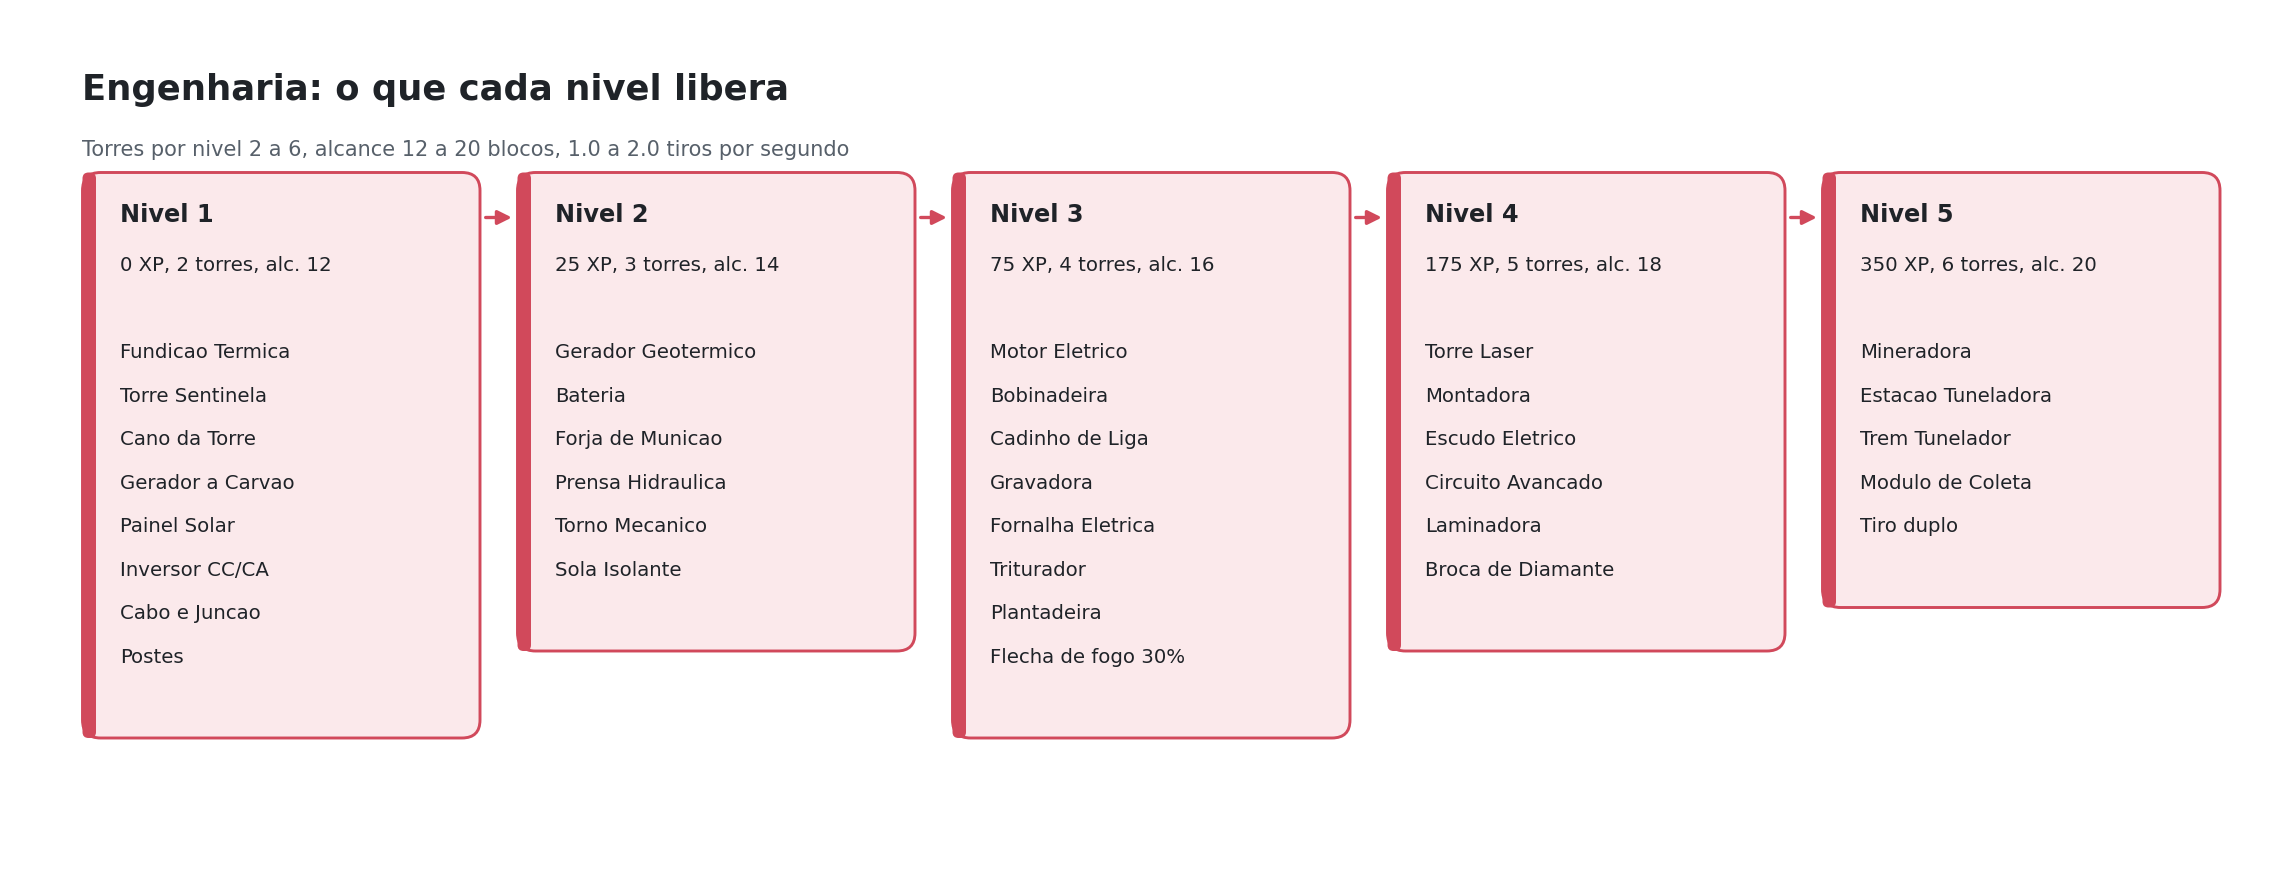
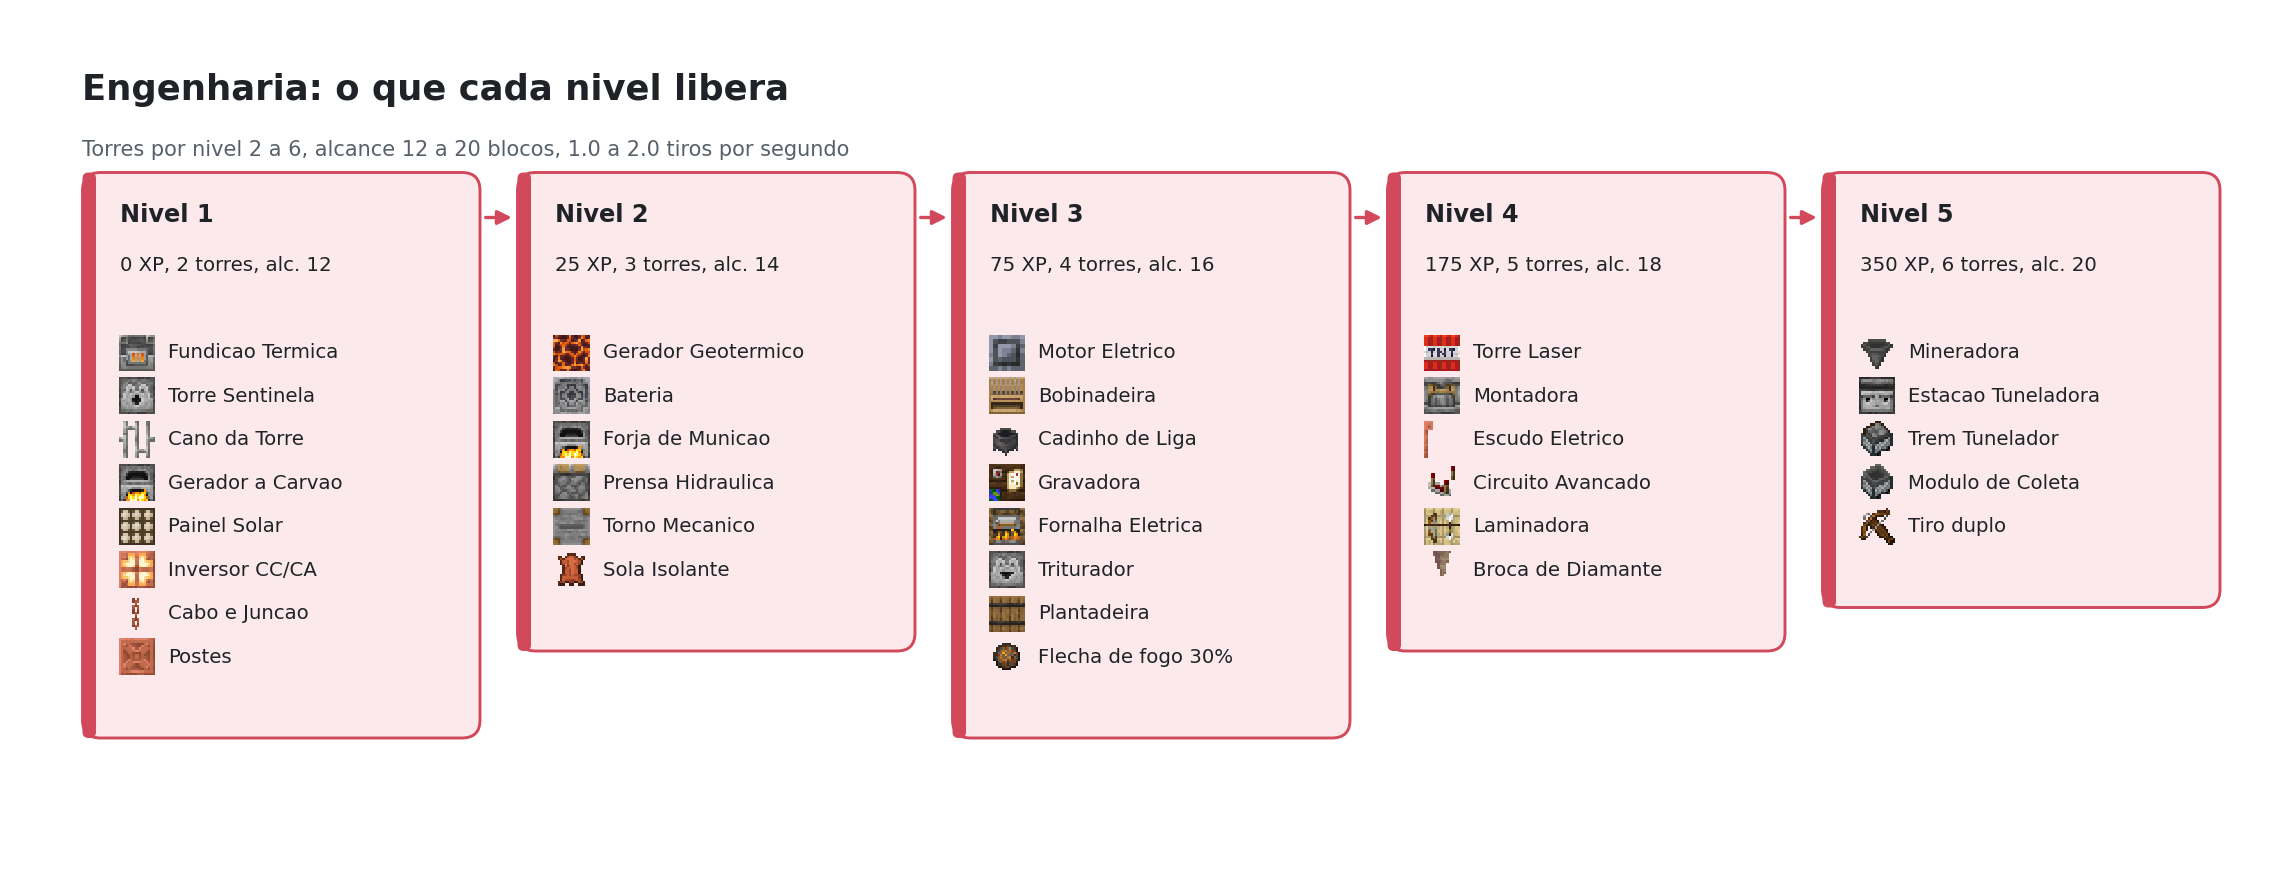
Diagramas com icones dos itens tirados das texturas do cliente Minecraft

diff --git a/docs/diagrams.py b/docs/diagrams.py
@@ -3,9 +3,15 @@ Gera os diagramas do README e da wiki em docs/img/.
 
     python docs/diagrams.py
 
-Requer matplotlib. Os numeros aqui espelham o codigo (Engineer, Farmer, Explorer, Relics,
+Requer matplotlib. Os icones dos itens saem das texturas do Minecraft instalado no PC
+(o jar do cliente em .minecraft/versions, extraido para docs/.textures, que nao vai para o git).
+Sem o jar, ou com MC_TEXTURES=off, os diagramas saem sem icones. MC_JAR aponta um jar especifico.
+
+Os numeros aqui espelham o codigo (Engineer, Farmer, Explorer, Relics,
 HardcoreRouletteClasses); ao mudar um balanceamento, atualize a tabela correspondente e rode de novo.
 """
+import os
+import zipfile
 from pathlib import Path
 
 import matplotlib
@@ -15,6 +21,118 @@ from matplotlib.patches import FancyBboxPatch, FancyArrowPatch
 
 OUT = Path(__file__).resolve().parent / "img"
 OUT.mkdir(exist_ok=True)
+TEX = Path(__file__).resolve().parent / ".textures"
+
+
+# ---------------------------------------------------------------- texturas
+def _client_jar():
+    if os.environ.get("MC_JAR"):
+        return Path(os.environ["MC_JAR"])
+    base = Path(os.environ.get("APPDATA", Path.home() / ".config")) / ".minecraft" / "versions"
+    if not base.is_dir():
+        base = Path.home() / ".minecraft" / "versions"
+    jars = []
+    for d in base.glob("*") if base.is_dir() else []:
+        j = d / (d.name + ".jar")
+        if j.is_file() and d.name[:1].isdigit() and "-" not in d.name:  # so versoes oficiais
+            jars.append(j)
+    key = lambda j: [int(p) if p.isdigit() else 0 for p in j.stem.split(".")]
+    return max(jars, key=key) if jars else None
+
+
+def _textures():
+    if os.environ.get("MC_TEXTURES") == "off":
+        return False
+    if (TEX / "item").is_dir():
+        return True
+    jar = _client_jar()
+    if not jar:
+        print("aviso: jar do Minecraft nao encontrado, diagramas sem icones")
+        return False
+    print("extraindo texturas de", jar.name)
+    with zipfile.ZipFile(jar) as z:
+        for n in z.namelist():
+            for kind in ("item", "block"):
+                pre = f"assets/minecraft/textures/{kind}/"
+                if n.startswith(pre) and n.endswith(".png") and "/" not in n[len(pre):]:
+                    out = TEX / kind / n[len(pre):]
+                    out.parent.mkdir(parents=True, exist_ok=True)
+                    out.write_bytes(z.read(n))
+    return True
+
+
+HAS_TEX = _textures()
+
+# id do item (no plugin ou vanilla) -> textura. Blocos usam uma face.
+ICON = {
+    # engenharia: dispositivos
+    "torre": "block/dispenser_front", "torre_laser": "block/tnt_side", "cano": "block/iron_bars",
+    "carvao": "block/furnace_front_on", "geotermico": "block/magma", "solar": "block/daylight_detector_top",
+    "inversor": "block/copper_bulb_lit", "bateria": "block/lodestone_side", "cabo": "item/copper_chain",
+    "juncao": "block/copper_block", "poste": "block/chiseled_copper", "forja": "block/furnace_front_on",
+    "fundicao": "block/blast_furnace_front_on", "fornalha": "block/smoker_front_on",
+    "triturador": "block/dropper_front", "plantadeira": "block/barrel_side", "montadora": "block/crafter_north",
+    "escudo": "block/lightning_rod", "mineradora": "item/hopper", "prensa": "block/piston_side",
+    "torno": "block/stonecutter_top", "bobinadeira": "block/loom_front", "cadinho": "item/cauldron",
+    "gravadora": "block/cartography_table_top", "laminadora": "block/fletching_table_front",
+    "broca": "item/pointed_dripstone", "estacao": "block/observer_front", "trem": "item/furnace_minecart",
+    "modulo_coleta": "item/hopper_minecart", "modulo_isolante": "item/leather", "bancada": "block/smithing_table_front",
+    # componentes
+    "ferro_industrial": "item/iron_ingot", "cobre_industrial": "item/copper_ingot",
+    "chapa_ferro": "block/iron_block", "chapa_cobre": "block/copper_trapdoor", "chapa_aco": "block/iron_trapdoor",
+    "fio_cobre": "item/string", "engrenagem": "item/firework_star", "bobina": "block/copper_bars",
+    "aco": "item/netherite_ingot", "liga": "item/gold_ingot", "circuito": "item/repeater",
+    "processador": "item/comparator", "motor": "block/heavy_core", "bala": "item/iron_nugget",
+    "flecha_fogo": "item/fire_charge", "tiro_duplo": "item/crossbow_standby",
+    # vanilla
+    "bloco_ferro": "block/iron_block", "bloco_cobre": "block/copper_block", "carvao_item": "item/coal",
+    "redstone": "item/redstone", "diamante": "item/diamond",
+    # habilidades
+    "engenharia": "block/dispenser_front", "exploracao": "item/compass_00", "plantacao": "item/wheat",
+    "jogador": "item/totem_of_undying", "party": "item/experience_bottle",
+    "companheiro": "item/bone", "ancora": "item/ender_pearl", "golem": "item/copper_golem_spawn_egg",
+    "livro": "item/enchanted_book", "carne": "item/cooked_beef",
+    # alvos dos livros
+    "picareta": "item/iron_pickaxe", "machado": "item/iron_axe", "espada/machado": "item/iron_sword",
+    "enxada": "item/iron_hoe", "armadura": "item/iron_chestplate", "capacete": "item/iron_helmet",
+    "botas": "item/iron_boots",
+}
+
+# texturas de modelo (varias faces num arquivo): recorta uma face
+CROP = {"motor": (0, 0, 8, 8)}
+
+_cache = {}
+
+
+def tex(key):
+    """Imagem RGBA da textura (primeiro quadro, se for animada) ou None."""
+    if not HAS_TEX or key not in ICON:
+        return None
+    if key not in _cache:
+        p = TEX / (ICON[key] + ".png")
+        if not p.is_file():
+            print("aviso: textura ausente", ICON[key])
+            _cache[key] = None
+        else:
+            from PIL import Image
+            import numpy as np
+            im = Image.open(p).convert("RGBA")  # paleta e tons de cinza viram RGBA de verdade
+            w = im.width
+            if im.height > w:
+                im = im.crop((0, 0, w, w))  # textura animada: primeiro quadro
+            if key in CROP:
+                im = im.crop(CROP[key])
+            _cache[key] = np.asarray(im)
+    return _cache[key]
+
+
+def draw_icon(ax, key, cx, cy, size):
+    img = tex(key)
+    if img is None:
+        return False
+    h = size / 2
+    ax.imshow(img, extent=(cx - h, cx + h, cy - h, cy + h), interpolation="nearest", aspect="auto", zorder=5)
+    return True
 
 # ---------------------------------------------------------------- estilo
 BG = "#ffffff"
@@ -47,6 +165,7 @@ def canvas(w, h, title=None, sub=None):
     ax.set_xlim(0, w)
     ax.set_ylim(0, h)
     ax.axis("off")
+    ax.autoscale(False)
     if title:
         ax.text(0.4, h - 0.45, title, fontsize=17, weight="bold", va="center")
     if sub:
@@ -54,8 +173,10 @@ def canvas(w, h, title=None, sub=None):
     return fig, ax
 
 
-def box(ax, x, y, w, h, title, lines=(), color=LINE, fs=10, title_fs=11.5, align="left"):
-    """Caixa com faixa colorida a esquerda. (x, y) e o canto inferior esquerdo."""
+def box(ax, x, y, w, h, title, lines=(), color=LINE, fs=10, title_fs=11.5, align="left", icon=None, icons=None,
+        icon_size=0.55):
+    """Caixa com faixa colorida a esquerda. (x, y) e o canto inferior esquerdo.
+    icon: textura grande no canto superior direito. icons: uma por linha (None = sem icone)."""
     ax.add_patch(FancyBboxPatch((x, y), w, h, boxstyle="round,pad=0,rounding_size=0.12",
                                 fc=SOFT.get(color, "#f6f8fa"), ec=color, lw=1.4))
     ax.add_patch(FancyBboxPatch((x, y), 0.09, h, boxstyle="round,pad=0,rounding_size=0.04",
@@ -63,8 +184,16 @@ def box(ax, x, y, w, h, title, lines=(), color=LINE, fs=10, title_fs=11.5, align
     tx = x + 0.25 if align == "left" else x + w / 2
     ha = "left" if align == "left" else "center"
     ax.text(tx, y + h - 0.28, title, fontsize=title_fs, weight="bold", va="center", ha=ha)
+    if icon:
+        sz = min(icon_size, h - 0.25)
+        draw_icon(ax, icon, x + w - 0.15 - sz / 2, y + h - 0.12 - sz / 2, sz)
     for i, ln in enumerate(lines):
-        ax.text(tx, y + h - 0.62 - i * 0.29, ln, fontsize=fs, color=INK, va="center", ha=ha)
+        ly = y + h - 0.62 - i * 0.29
+        k = icons[i] if icons and i < len(icons) else None
+        if k and draw_icon(ax, k, tx + 0.11, ly, 0.24):
+            ax.text(tx + 0.32, ly, ln, fontsize=fs, color=INK, va="center", ha=ha)
+        else:
+            ax.text(tx, ly, ln, fontsize=fs, color=INK, va="center", ha=ha)
 
 
 def arrow(ax, a, b, color=LINE, rad=0.0, lw=1.6, style="-|>"):
@@ -83,7 +212,7 @@ def visao_geral():
     fig, ax = canvas(14, 7.0, "HardcoreRouletteClasses: habilidades",
                      "Ninguem escolhe classe: todo jogador sobe as tres. O nivel libera o conteudo.")
     box(ax, 5.2, 4.2, 3.6, 1.35, "Jogador (vida hardcore)",
-        ["XP preso ao mundo hc_* da run", "Morreu: tudo volta ao nivel 1"], LINE, align="center")
+        ["XP preso ao mundo hc_* da run", "Morreu: tudo volta ao nivel 1"], LINE, align="center", icon="jogador")
 
     box(ax, 0.4, 0.9, 4.2, 2.6, "Engenharia", [
         "Sobe: fundir, montar na bancada,",
@@ -93,7 +222,7 @@ def visao_geral():
         "Libera: torres, energia, cabos,",
         "maquinas, linha industrial,",
         "Tuneladora (nivel 5)",
-    ], ENG)
+    ], ENG, icon="engenharia")
     box(ax, 4.9, 0.9, 4.2, 2.6, "Exploracao", [
         "Sobe: cada chunk novo visitado",
         "XP: 0 / 150 / 500 / 1200 / 2500",
@@ -102,7 +231,7 @@ def visao_geral():
         "Ancora de Perola (500 a 4000 blocos),",
         "orbes +4% a +20%, bonus de carne,",
         "Livros Antigos em baus de estrutura",
-    ], EXP)
+    ], EXP, icon="exploracao")
     box(ax, 9.4, 0.9, 4.2, 2.6, "Plantacao", [
         "Sobe: colher maduro (+1 a cada 4),",
         "sementes dos plantadores (+1 a cada 10)",
@@ -111,7 +240,7 @@ def visao_geral():
         "Libera: Plantador de Cobre (golem),",
         "mais golems, raio maior,",
         "colheita extra de 5% a 25%",
-    ], FARM)
+    ], FARM, icon="plantacao")
     for cx, c in ((2.5, ENG), (7.0, EXP), (11.5, FARM)):
         arrow(ax, (7.0, 4.2), (cx, 3.52), c, lw=2)
 
@@ -122,16 +251,18 @@ def visao_geral():
 
 # ---------------------------------------------------------------- 2. niveis da engenharia
 ENG_UNLOCKS = {
-    1: ["Fundicao Termica", "Torre Sentinela", "Cano da Torre", "Gerador a Carvao",
-        "Painel Solar", "Inversor CC/CA", "Cabo e Juncao", "Postes"],
-    2: ["Gerador Geotermico", "Bateria", "Forja de Municao", "Prensa Hidraulica",
-        "Torno Mecanico", "Sola Isolante"],
-    3: ["Motor Eletrico", "Bobinadeira", "Cadinho de Liga", "Gravadora",
-        "Fornalha Eletrica", "Triturador", "Plantadeira", "Flecha de fogo 30%"],
-    4: ["Torre Laser", "Montadora", "Escudo Eletrico", "Circuito Avancado",
-        "Laminadora", "Broca de Diamante"],
-    5: ["Mineradora", "Estacao Tuneladora", "Trem Tunelador", "Modulo de Coleta",
-        "Tiro duplo"],
+    1: [("fundicao", "Fundicao Termica"), ("torre", "Torre Sentinela"), ("cano", "Cano da Torre"),
+        ("carvao", "Gerador a Carvao"), ("solar", "Painel Solar"), ("inversor", "Inversor CC/CA"),
+        ("cabo", "Cabo e Juncao"), ("poste", "Postes")],
+    2: [("geotermico", "Gerador Geotermico"), ("bateria", "Bateria"), ("forja", "Forja de Municao"),
+        ("prensa", "Prensa Hidraulica"), ("torno", "Torno Mecanico"), ("modulo_isolante", "Sola Isolante")],
+    3: [("motor", "Motor Eletrico"), ("bobinadeira", "Bobinadeira"), ("cadinho", "Cadinho de Liga"),
+        ("gravadora", "Gravadora"), ("fornalha", "Fornalha Eletrica"), ("triturador", "Triturador"),
+        ("plantadeira", "Plantadeira"), ("flecha_fogo", "Flecha de fogo 30%")],
+    4: [("torre_laser", "Torre Laser"), ("montadora", "Montadora"), ("escudo", "Escudo Eletrico"),
+        ("processador", "Circuito Avancado"), ("laminadora", "Laminadora"), ("broca", "Broca de Diamante")],
+    5: [("mineradora", "Mineradora"), ("estacao", "Estacao Tuneladora"), ("trem", "Trem Tunelador"),
+        ("modulo_coleta", "Modulo de Coleta"), ("tiro_duplo", "Tiro duplo")],
 }
 
 
@@ -146,8 +277,10 @@ def engenharia_niveis():
         n = len(ENG_UNLOCKS[i + 1])
         h = 1.25 + n * 0.29 + 0.2
         top = 4.6
+        items = ENG_UNLOCKS[i + 1]
         box(ax, x, top - h, 2.65, h, f"Nivel {i + 1}",
-            [f"{xp[i]} XP, {turrets[i]} torres, alc. {rng[i]}", ""] + ENG_UNLOCKS[i + 1], ENG, fs=9.5)
+            [f"{xp[i]} XP, {turrets[i]} torres, alc. {rng[i]}", ""] + [t for _, t in items], ENG, fs=9.5,
+            icons=[None, None] + [k for k, _ in items])
         if i < 4:
             arrow(ax, (x + 2.66, top - 0.3), (x + 2.89, top - 0.3), ENG)
     save(fig, "engenharia-niveis.png")
@@ -159,28 +292,28 @@ def linha_industrial():
                      "Do bloco de ferro ate as maquinas avancadas. Numero entre parenteses: nivel minimo.")
     W, H = 2.6, 1.0
 
-    def node(x, y, t, sub, c):
-        box(ax, x, y, W, H, t, [sub], c, fs=9, title_fs=10.5)
+    def node(x, y, t, sub, c, ic=None):
+        box(ax, x, y, W, H, t, [sub], c, fs=9, title_fs=10.5, icon=ic, icon_size=0.4)
         return (x, y)
 
     # coluna 0: materia prima
-    node(0.3, 7.0, "Bloco de ferro", "vanilla", LINE)
-    node(0.3, 5.4, "Bloco de cobre", "vanilla", LINE)
-    node(0.3, 3.0, "Carvao / ouro", "redstone, quartzo", LINE)
+    node(0.3, 7.0, "Bloco de ferro", "vanilla", LINE, "bloco_ferro")
+    node(0.3, 5.4, "Bloco de cobre", "vanilla", LINE, "bloco_cobre")
+    node(0.3, 3.0, "Carvao / ouro", "redstone, quartzo", LINE, "redstone")
     # coluna 1: fundicao
-    node(3.5, 6.2, "Fundicao Termica (1)", "carvao ou lava, 20 s", ENG)
+    node(3.5, 6.2, "Fundicao Termica (1)", "carvao ou lava, 20 s", ENG, "fundicao")
     # coluna 2: industriais
-    node(6.7, 7.0, "Ferro Industrial", "base de tudo", GOLD)
-    node(6.7, 5.4, "Cobre Industrial", "base de tudo", GOLD)
+    node(6.7, 7.0, "Ferro Industrial", "base de tudo", GOLD, "ferro_industrial")
+    node(6.7, 5.4, "Cobre Industrial", "base de tudo", GOLD, "cobre_industrial")
     # coluna 3: maquinas de processo
-    node(9.9, 7.9, "Prensa (2)", "chapas ferro/cobre/aco", ENG)
-    node(9.9, 6.6, "Torno (2)", "fio de cobre, engrenagem", ENG)
-    node(9.9, 5.3, "Cadinho (3)", "aco, liga condutora", ENG)
-    node(9.9, 4.0, "Bobinadeira (3)", "fio + chapa = bobina", ENG)
-    node(9.9, 2.7, "Gravadora (3/4)", "circuito, circ. avancado", ENG)
+    node(9.9, 7.9, "Prensa (2)", "chapas ferro/cobre/aco", ENG, "prensa")
+    node(9.9, 6.6, "Torno (2)", "fio de cobre, engrenagem", ENG, "torno")
+    node(9.9, 5.3, "Cadinho (3)", "aco, liga condutora", ENG, "cadinho")
+    node(9.9, 4.0, "Bobinadeira (3)", "fio + chapa = bobina", ENG, "bobinadeira")
+    node(9.9, 2.7, "Gravadora (3/4)", "circuito, circ. avancado", ENG, "gravadora")
     # coluna 4: componentes chave
-    node(13.1, 7.0, "Motor Eletrico (3)", "bobina, 2 engren., chapa", GOLD)
-    node(13.1, 4.6, "Circuito Avancado", "2 circuitos, liga, diamante", GOLD)
+    node(13.1, 7.0, "Motor Eletrico (3)", "bobina, 2 engren., chapa", GOLD, "motor")
+    node(13.1, 4.6, "Circuito Avancado", "2 circuitos, liga, diamante", GOLD, "processador")
 
     def a(p, q, c=LINE, rad=0.0):
         arrow(ax, p, q, c, rad)
@@ -206,19 +339,20 @@ def linha_industrial():
 
     # rodape: quem usa o que
     uses = [
-        ("Torre Sentinela", "2 Ferro Ind., motor, circuito"),
-        ("Torre Laser", "4 chapa aco, 2 motores, circ. avancado"),
-        ("Triturador", "chapa, engrenagem, motor"),
-        ("Montadora", "chapa de aco, motor, circuito"),
-        ("Escudo Eletrico", "chapa de aco, bobina, circuito"),
-        ("Mineradora", "chapa de aco, motor, circ. avancado"),
+        ("torre", "Torre Sentinela", "2 Ferro Ind., motor, circuito"),
+        ("torre_laser", "Torre Laser", "4 chapa aco, 2 motores, circ. avancado"),
+        ("triturador", "Triturador", "chapa, engrenagem, motor"),
+        ("montadora", "Montadora", "chapa de aco, motor, circuito"),
+        ("escudo", "Escudo Eletrico", "chapa de aco, bobina, circuito"),
+        ("mineradora", "Mineradora", "chapa de aco, motor, circ. avancado"),
     ]
     ax.text(0.3, 1.95, "Quem consome os componentes", fontsize=12, weight="bold")
-    for i, (m, p) in enumerate(uses):
+    for i, (k, m, p) in enumerate(uses):
         x = 0.3 + (i % 3) * 5.2
         y = 1.35 - (i // 3) * 0.55
-        ax.text(x, y, m, fontsize=10, weight="bold", color=ENG)
-        ax.text(x + 1.75, y, p, fontsize=9.5, color=INK)
+        dx = 0.36 if draw_icon(ax, k, x + 0.13, y, 0.28) else 0
+        ax.text(x + dx, y, m, fontsize=10, weight="bold", color=ENG, va="center")
+        ax.text(x + 1.75 + dx, y, p, fontsize=9.5, color=INK, va="center")
     save(fig, "linha-industrial.png")
 
 
@@ -226,20 +360,22 @@ def linha_industrial():
 def rede_eletrica():
     fig, ax = canvas(15, 7.4, "Rede eletrica",
                      "Tudo que encosta num cabo, juncao ou poste da mesma rede divide a energia.")
-    box(ax, 0.4, 4.6, 3.3, 1.6, "Gerador a Carvao", ["4/s enquanto queima"], ENG)
-    box(ax, 0.4, 2.8, 3.3, 1.6, "Geotermico", ["0.5/s por fonte de lava", "dobro no Nether"], ENG)
-    box(ax, 0.4, 0.6, 3.3, 2.0, "Painel Solar", ["1.5/s de dia, ceu aberto", "corrente continua:", "precisa de Inversor"], ENG)
-    box(ax, 4.5, 0.9, 2.5, 1.4, "Inversor CC/CA", ["ate 8/s, 90%"], GOLD)
+    box(ax, 0.4, 4.6, 3.3, 1.6, "Gerador a Carvao", ["4/s enquanto queima"], ENG, icon="carvao")
+    box(ax, 0.4, 2.8, 3.3, 1.6, "Geotermico", ["0.5/s por fonte de lava", "dobro no Nether"], ENG, icon="geotermico")
+    box(ax, 0.4, 0.6, 3.3, 2.0, "Painel Solar", ["1.5/s de dia, ceu aberto", "corrente continua:", "precisa de Inversor"], ENG, icon="solar")
+    box(ax, 4.5, 0.9, 2.5, 1.4, "Inversor CC/CA", ["ate 8/s, 90%"], GOLD, icon="inversor")
 
     box(ax, 7.6, 2.4, 3.0, 3.0, "Rede", ["Cabo (corrente de cobre)", "Juncao (cobre encerado)",
-                                          "Poste: ate 24 blocos", "Alavanca = disjuntor", "Cabo da choque"], LINE)
-    box(ax, 7.6, 0.4, 3.0, 1.6, "Bateria", ["guarda ate 5000", "3 modos"], GOLD)
+                                          "Poste: ate 24 blocos", "Alavanca = disjuntor", "Cabo da choque"], LINE,
+        icons=["cabo", "juncao", "poste", None, None])
+    box(ax, 7.6, 0.4, 3.0, 1.6, "Bateria", ["guarda ate 5000", "3 modos"], GOLD, icon="bateria")
 
     box(ax, 11.4, 4.3, 3.2, 1.9, "Defesa", ["Torre Sentinela 2/s + tiro", "Torre Laser +25 por tiro",
-                                            "Escudo 3/s + 1 por mob"], ENG)
+                                            "Escudo 3/s + 1 por mob"], ENG,
+        icons=["torre", "torre_laser", "escudo"])
     box(ax, 11.4, 1.9, 3.2, 2.1, "Maquinas", ["Fornalha 4/s, Triturador 5/s", "Prensa 6/s, Torno 4/s",
-                                              "Cadinho 8/s, Gravadora 6/s", "Mineradora 12 por bloco"], ENG)
-    box(ax, 11.4, 0.2, 3.2, 1.4, "Tuneladora", ["Trem 10/s escavando"], ENG)
+                                              "Cadinho 8/s, Gravadora 6/s", "Mineradora 12 por bloco"], ENG, icon="triturador")
+    box(ax, 11.4, 0.2, 3.2, 1.4, "Tuneladora", ["Trem 10/s escavando"], ENG, icon="trem")
 
     arrow(ax, (3.7, 5.4), (7.6, 4.6), ENG)
     arrow(ax, (3.7, 3.6), (7.6, 3.9), ENG)
@@ -311,7 +447,8 @@ def livros_antigos():
         col, row = i % 3, i // 3
         x = 0.4 + col * 4.85
         y = 5.6 - row * 1.5
-        box(ax, x, y, 4.6, 1.25, f"{name}  {lv}", [f"{tgt}: {eff}"], TARGET_COLOR[tgt], fs=9.5)
+        box(ax, x, y, 4.6, 1.25, f"{name}  {lv}", [f"{tgt}: {eff}"], TARGET_COLOR[tgt], fs=9.5, icon=tgt)
+        draw_icon(ax, "livro", x + 4.6 - 0.86, y + 1.25 - 0.4, 0.42)
     ax.text(0.4, 0.35, "Aplicar: pegue o livro com o cursor e clique sobre o item no inventario. "
             "Qualquer jogador usa o item encantado; so o achado depende da Exploracao.",
             fontsize=10, color=MUTED)

diff --git a/docs/wiki/Arquitetura.md b/docs/wiki/Arquitetura.md
@@ -44,3 +44,7 @@ python docs/diagrams.py
 ```
 
 Os numeros do script copiam as constantes do codigo. Ao mudar um balanceamento, ajuste o script e gere de novo.
+
+Os icones de itens e blocos saem das texturas do Minecraft instalado no PC: o script acha o jar do cliente mais novo em `.minecraft/versions` e extrai as texturas para `docs/.textures` (fora do git). Para escolher outro jar, use `MC_JAR=<caminho do jar>`; para gerar sem icones, `MC_TEXTURES=off`. O mapa de item para textura fica no dicionario `ICON` do script.
+
+As texturas do Minecraft sao da Mojang; aqui aparecem so como icones dentro dos diagramas.

diff --git a/README.md b/README.md
@@ -97,7 +97,7 @@ mvn package
 
 O jar sai em `target/HardcoreRouletteClasses.jar`. Copie para `plugins/`.
 
-Para gerar os diagramas de novo: `python docs/diagrams.py` (precisa de matplotlib).
+Para gerar os diagramas de novo: `python docs/diagrams.py` (precisa de matplotlib e do Minecraft instalado para os icones; detalhes em [Arquitetura](docs/wiki/Arquitetura.md)).
 
 ## Arquitetura
 
